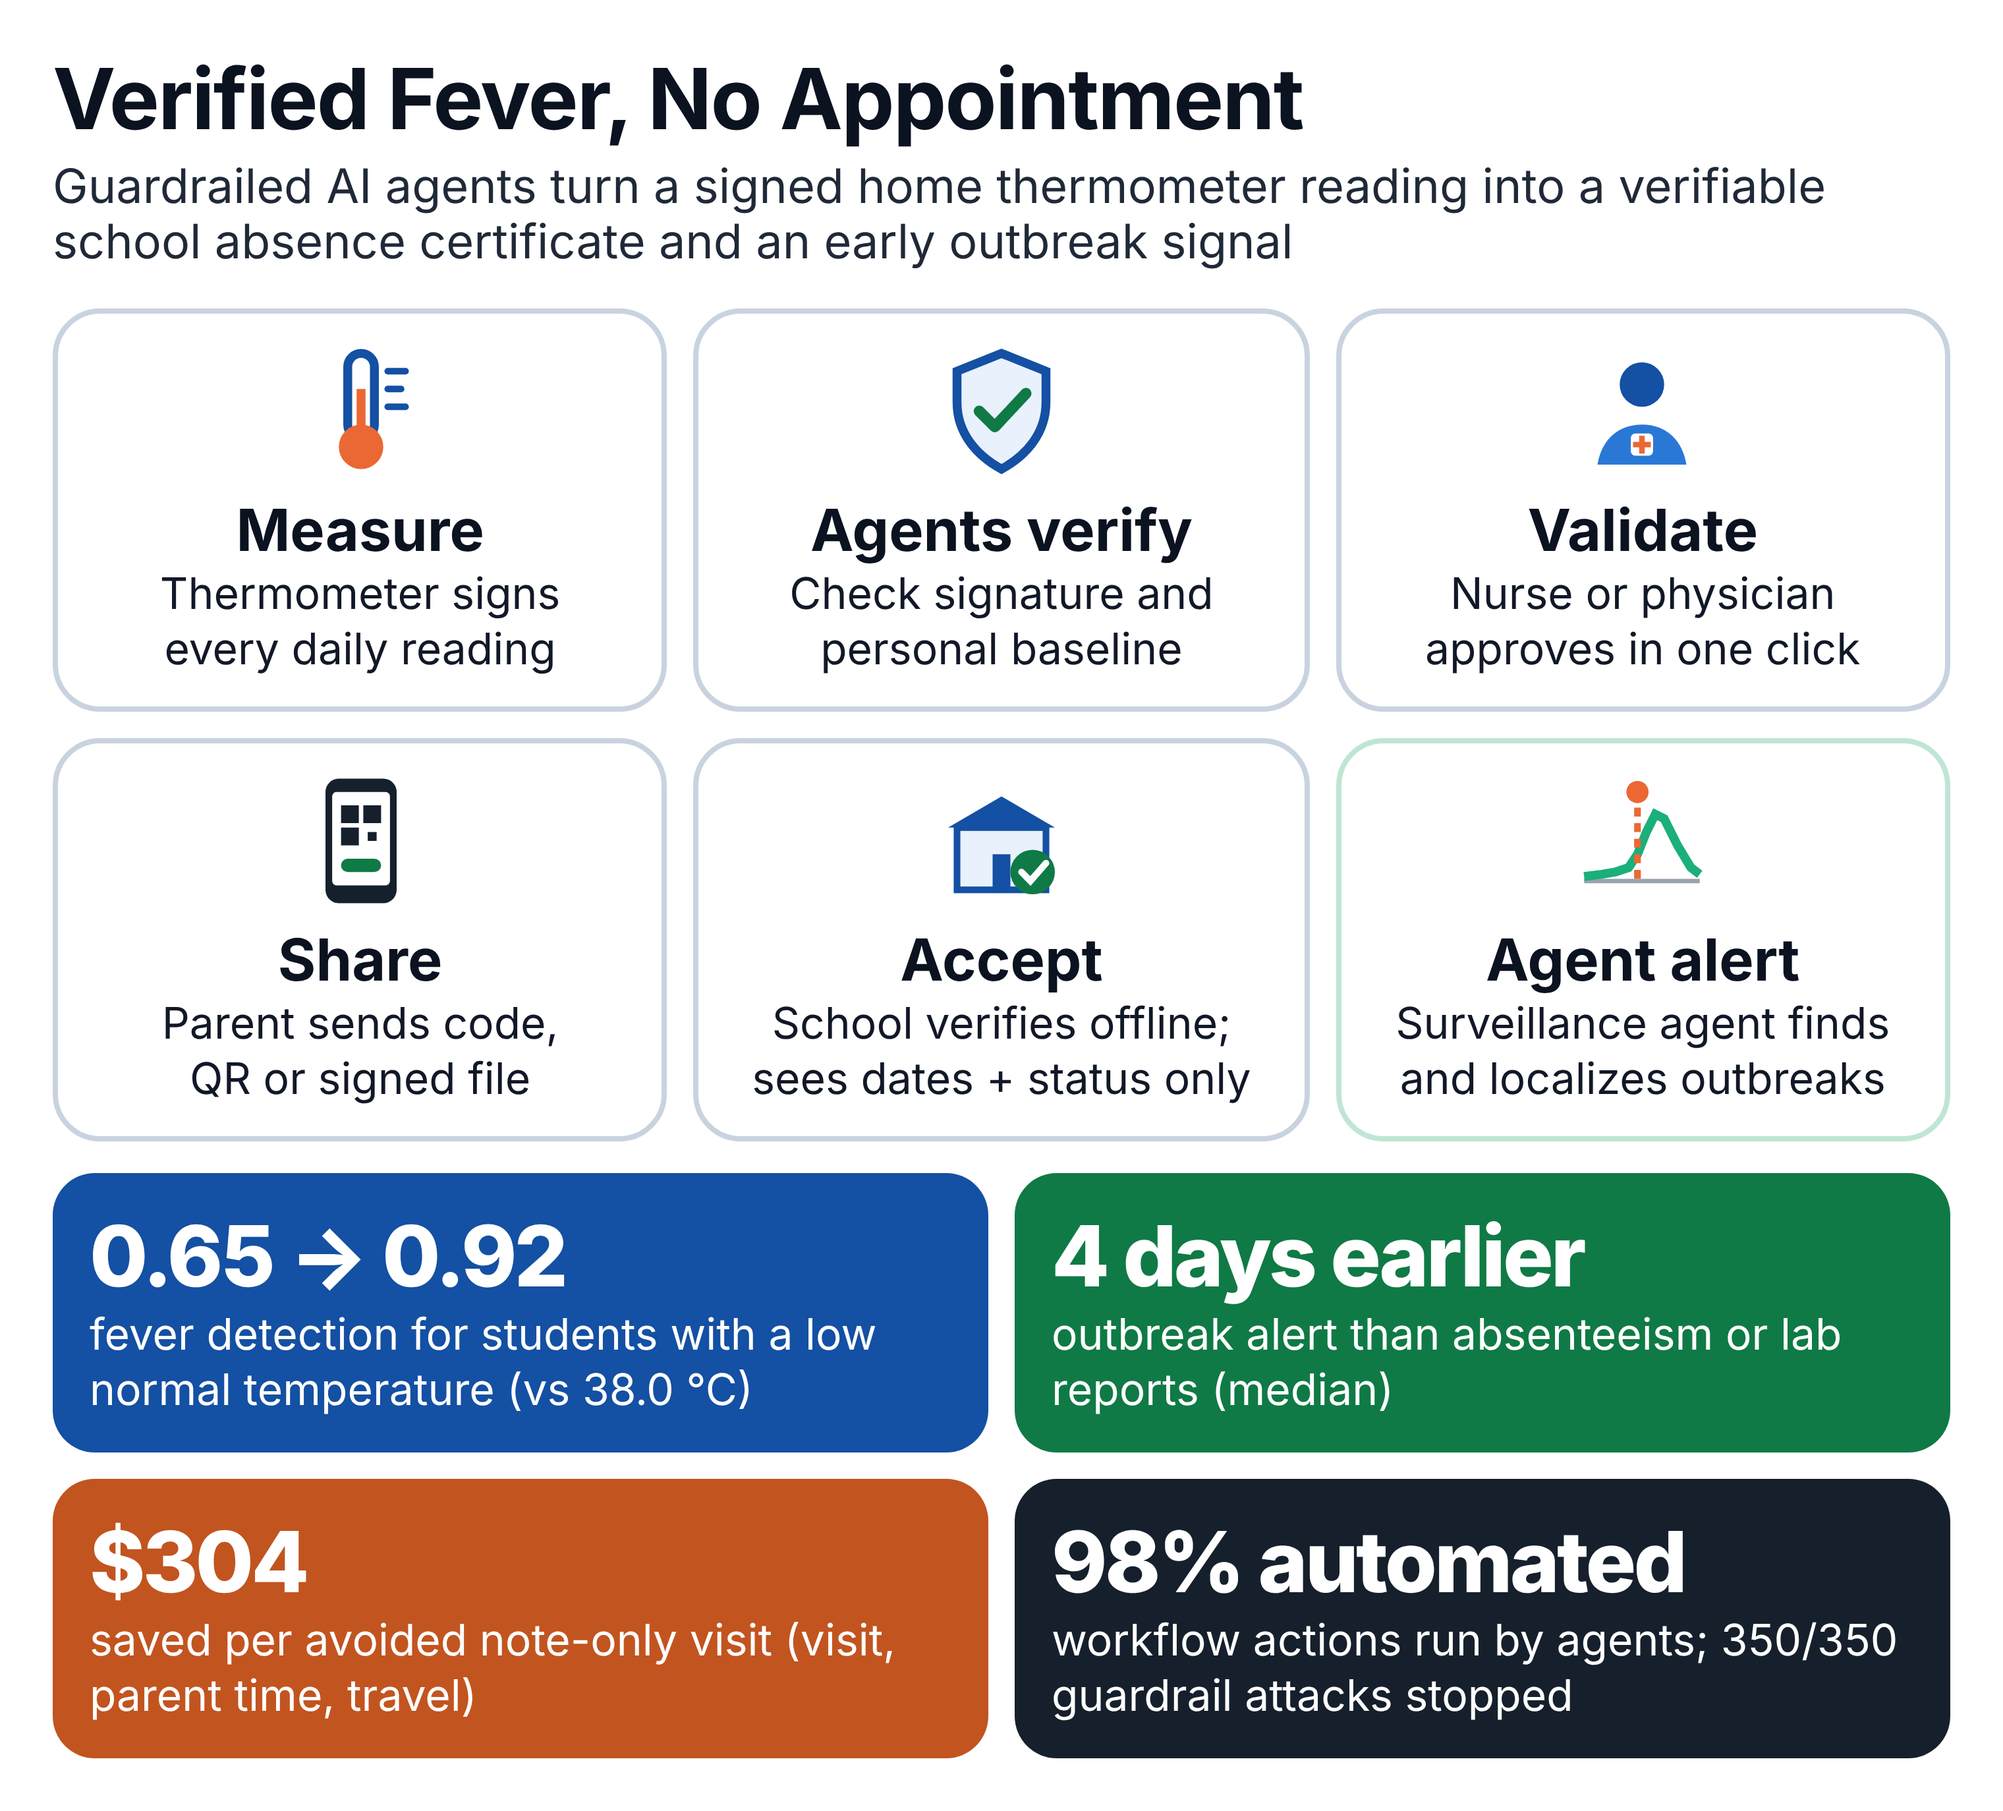
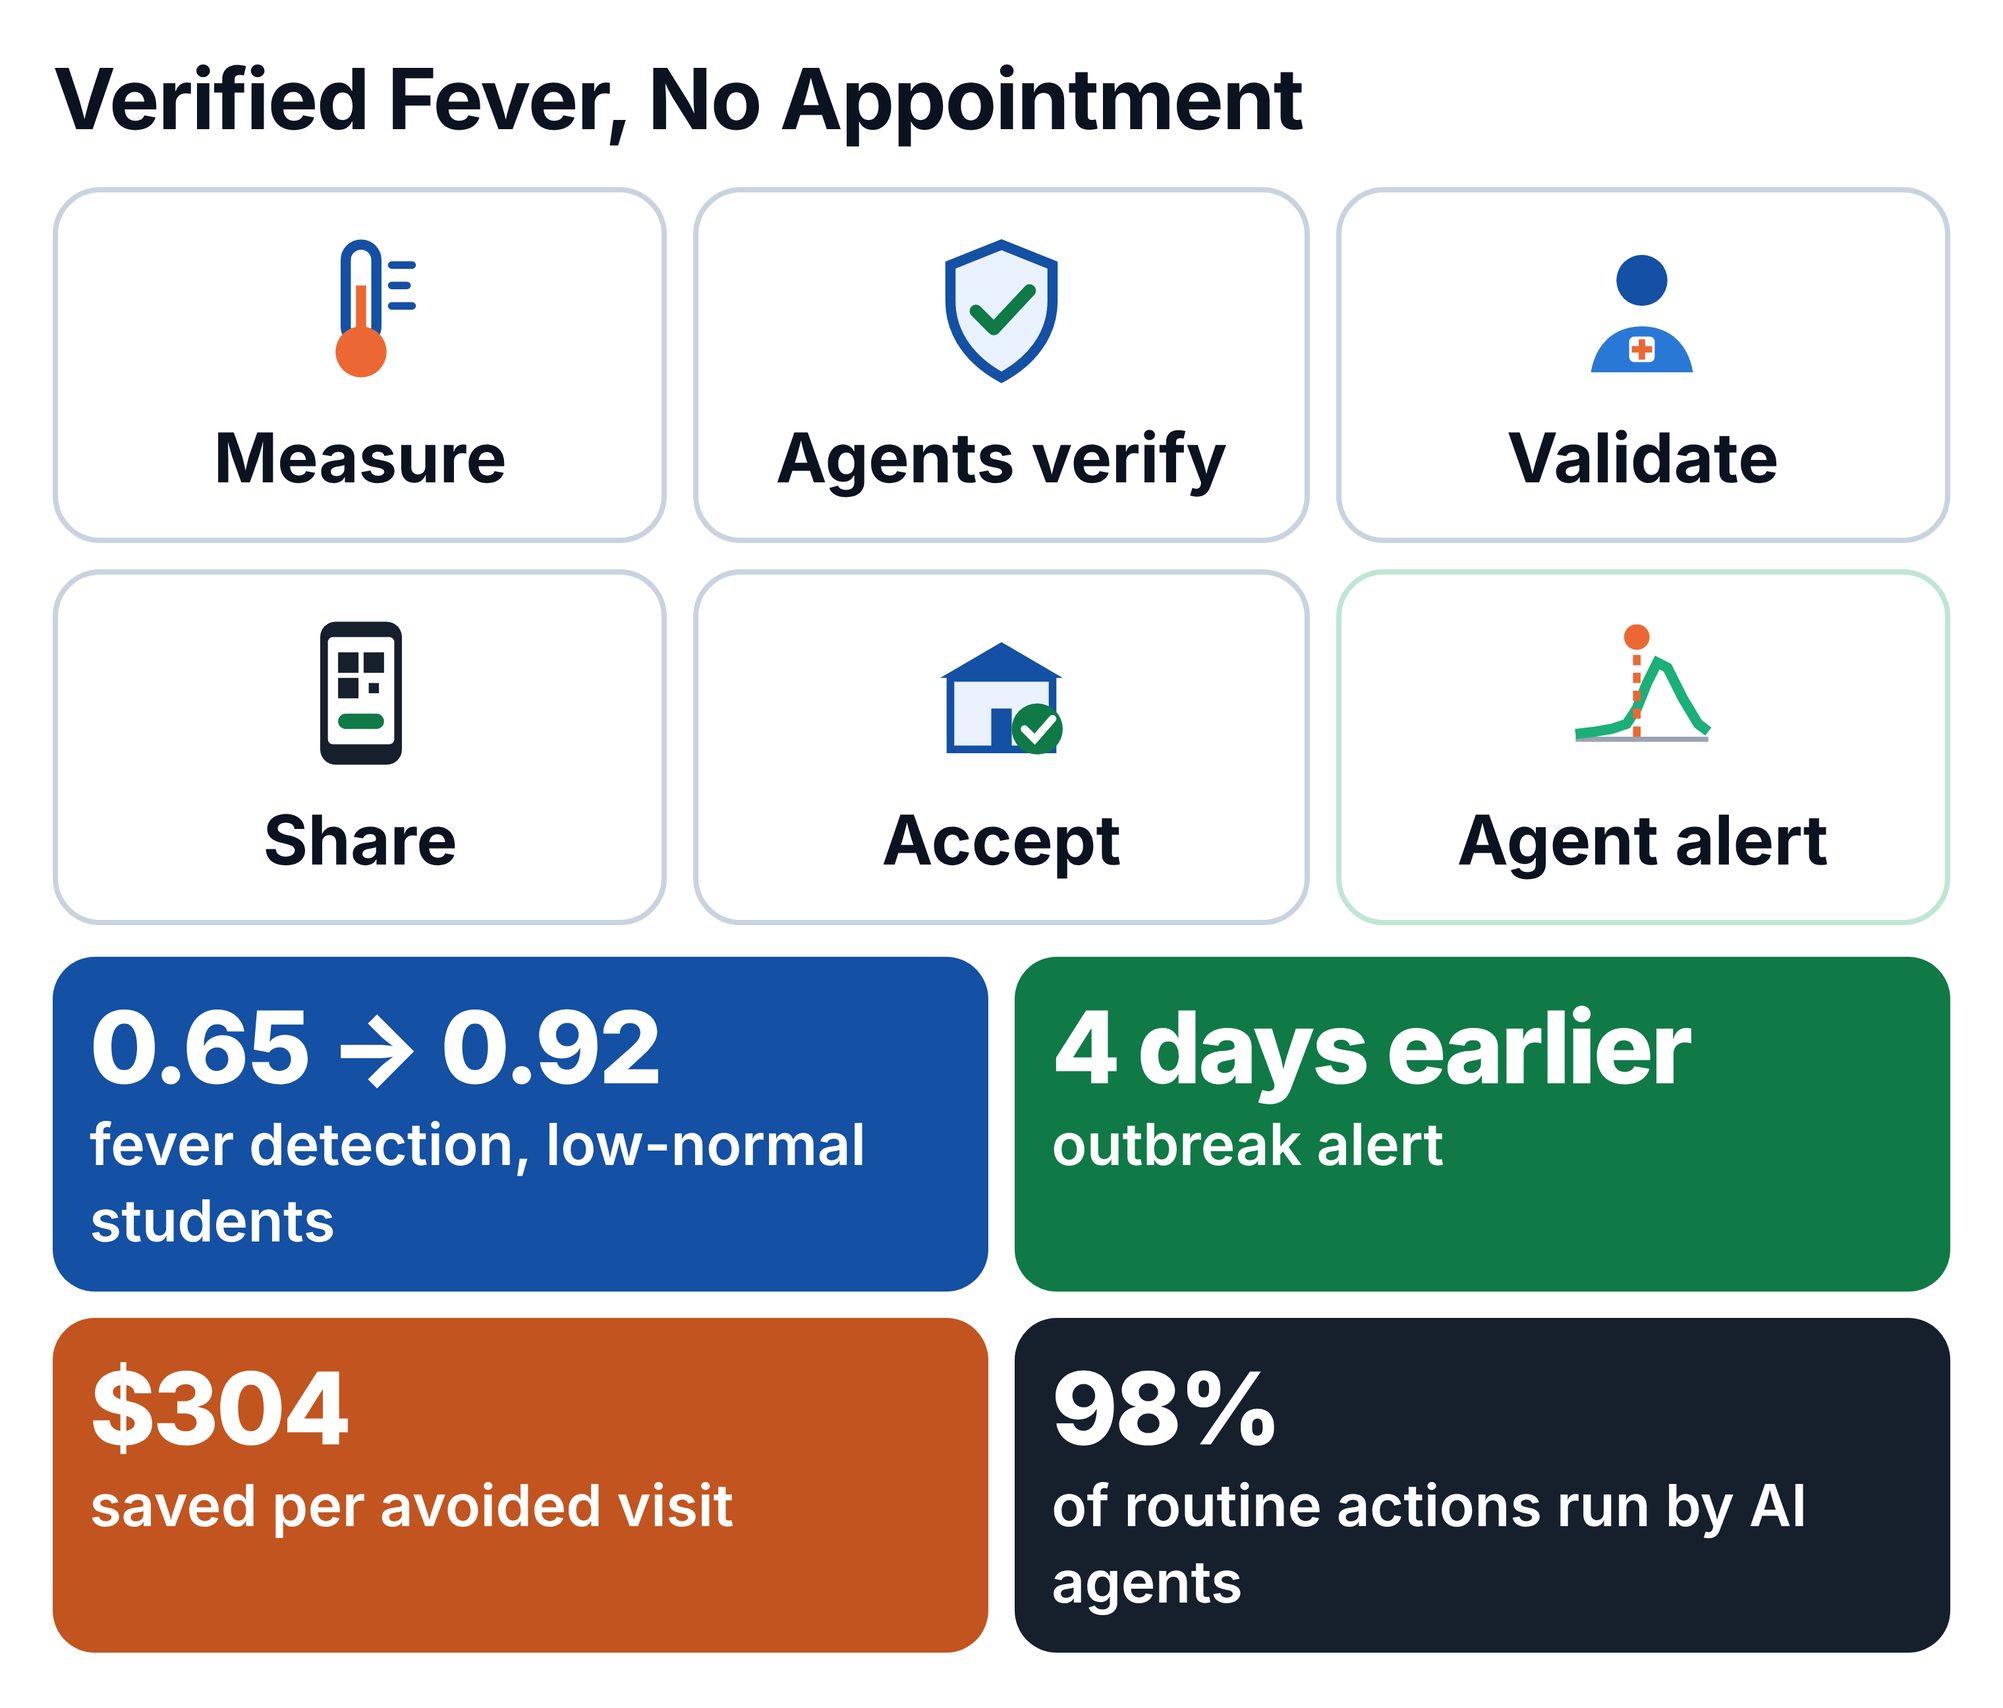
Compact graphical abstract: remove small text, large labels only
Claude-Session: https://claude.ai/code/session_01WfcZWjRLnJCQziVpVRhWPa

diff --git a/docs/make_graphical_abstract.py b/docs/make_graphical_abstract.py
@@ -132,10 +132,17 @@ def main():
                    ".st span{font-size:16.5px;color:#111827;line-height:1.3}"
                    ".kpis{display:grid;grid-template-columns:1fr 1fr;gap:10px}.k{box-sizing:border-box;padding:12px 14px}"
                    ".k .v{font-size:32px;white-space:nowrap}.k .l{font-size:16.5px;line-height:1.3;opacity:1}</style></head>")
-        page = html.replace("</head>", compact, 1).replace("Intake agent: signature, replay;<br>personal baseline rule",
-                                                          "Check signature and<br>personal baseline")
-        k0 = page.index('<div class="kpis"'); k1 = page.index('<div class="foot">')
-        page = page[:k0] + page[k0:k1].replace("<br>", " ") + page[k1:]
+        import re as _re
+        compact = compact.replace("</style>", ".sub{display:none}.st span{display:none}.st b{font-size:26px;margin-top:6px}"
+                                  ".st{padding:14px 6px}.st svg{width:62px;height:62px}"
+                                  ".k .v{font-size:38px}.k .l{font-size:22px;font-weight:600}</style>")
+        page = html.replace("</head>", compact, 1)
+        short = {"k1": "fever detection, low-normal students", "k2": "outbreak alert", "k3": "saved per avoided visit",
+                 "k4": "of routine actions run by AI agents"}
+        for k, t in short.items():
+            page = _re.sub(r'(<div class="k ' + k + r'"><div class="v">.*?</div><div class="l">).*?(</div>)',
+                           lambda m: m.group(1) + t + m.group(2), page, count=1, flags=_re.S)
+        page = _re.sub(r'>(\d+)% automated<', r'>\1%<', page)
         f = ROOT / "docs" / "_compact.html"
         f.write_text(page)
         pg4 = b.new_page(viewport={"width": 760, "height": 900}, device_scale_factor=4)
